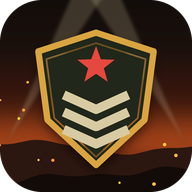
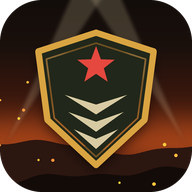
Tapered insignia chevrons, scrolling mission list, safe-area insets (#15)
- Insignia chevrons taper to points and narrow toward the shield tip so they stay
  clear of the border (menu, splash and app icon regenerated).
- The start screen fits the screen; only the mission list scrolls (drag on phones,
  a drag that scrolled does not open a briefing) and it shows the next mission.
- Menus and the HUD keep clear of rounded corners and camera holes: insets from the
  display safe area, rechecked when the phone turns, with a corner margin on phones.
  Backgrounds still reach the edges. AF_SAFE simulates a cutout.

Claude-Session: https://claude.ai/code/session_01VxP4foLCrti1jHnjK6Q8Lo

Changed region(s): [[0.3125, 0.4688, 0.6875, 0.7812]]

diff --git a/godot/tools/icon.py b/godot/tools/icon.py
@@ -75,9 +75,10 @@ def foreground():
     # inner rule
     inner = [(cx + (x - cx) * 0.86, cy + (y - cy) * 0.86 + N * 0.004) for x, y in shield]
     d.line(inner + [inner[0], inner[1]], fill=hexc('d9a441', 110), width=int(N * 0.006), joint='curve')
+    # chevrons taper to points and narrow toward the tip, clear of the border
     for i in range(3):
-        y = 0.47 + 0.13 * i
-        d.line([P(0.22, y), P(0.5, y + 0.11), P(0.78, y)], fill=hexc('d8cba3'), width=int(N * 0.032), joint='curve')
+        y = 0.47 + 0.13 * i; hw = (0.27, 0.24, 0.19)[i]; t = 0.075
+        d.polygon([P(0.5 - hw, y), P(0.5, y + 0.11 - t / 2), P(0.5 + hw, y), P(0.5, y + 0.11 + t / 2)], fill=hexc('d8cba3'))
     c = P(0.5, 0.25); st = []
     for i in range(10):
         a = -math.pi / 2 + i * math.pi / 5; r = W * (0.17 if i % 2 == 0 else 0.07)

diff --git a/AGENTS.md b/AGENTS.md
@@ -102,3 +102,6 @@ godot --headless tests/sim_test.tscn   # must end with SIM TEST DONE and no SCRI
 
 When you learn something a future agent would need (a convention, a gotcha, a check to run), add it here
 in your PR, keep it short, and mention the change in the PR description.
+- Keep buttons and text inside the safe area: `main.gd _apply_safe` feeds `UI.set_insets` from the display safe area
+  (camera hole/notch, either landscape side) with at least 24 UI units at the sides and 8 at top/bottom on phones
+  for rounded corners. Backgrounds still bleed to the edges. Simulate a cutout with `AF_SAFE=left,top,right,bottom` (pixels).
